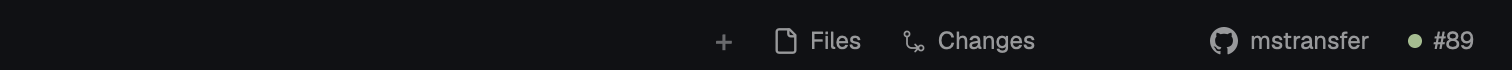
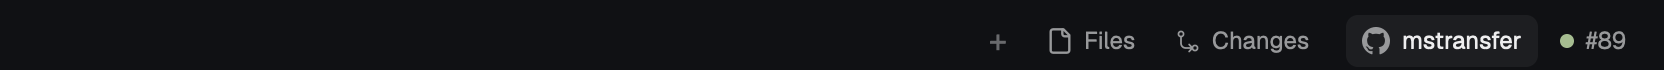
Size the block to its pills; fix clipped hover on the repo pill

Changed region(s): [[0.4663, 0.3714, 0.9947, 0.7714]]

diff --git a/mods/github-link/main.js b/mods/github-link/main.js
@@ -1,11 +1,12 @@
 import { View, div, svg } from "gpui-kit";
 import { h_flex } from "gpui-base";
-import { exec, theme, focused, panes, spaces, window } from "herdr";
+import { exec, theme, focused, panes, spaces, window, layout, run, props, settings } from "herdr";
 
 // Pills for the focused terminal's GitHub repo and its branch's PR.
 // The remote is read where the terminal runs (its space's machine);
 // the PR is looked up here with the person's own `gh` login.
 const PR_EVERY = 2 * 60 * 1000;
+const PAD = 10; // right padding, matching the tab bar's
 
 // git@github.com:o/r.git, https://github.com/o/r, ssh://git@github.com/o/r,
 // and ssh host aliases like github.com-work:o/r.
@@ -73,17 +74,29 @@ export default class GithubLink extends View {
       .children(kids);
   }
 
+  // The block hugs its pills so they sit right after the tab bar's own
+  // buttons: resize our layout node to the pills' width (+ right padding).
+  fit(width) {
+    const id = props()?.block ?? "github";
+    const find = (n) => n?.id === id ? n : (n?.children ?? []).map(find).find(Boolean);
+    const node = find(layout());
+    const want = Math.max(0, Math.round(width / (settings().zoom || 1)) + (width > 0 ? PAD : 0));
+    if (node && Math.abs((node.size?.px ?? -1) - want) > 1) run("layout.resize", { id, px: want });
+  }
+
   render(cx) {
     const t = theme();
-    const row = h_flex().size_full().min_w(0).pr(10).gap(3).items_center().justify_end()
-      .bg(t.chrome).border_b(1).border_color(t.border);
+    const pills = h_flex().id("pills").flex_none().h_full().gap(3).items_center()
+      .on_size_change((size, _cx) => this.fit(size.width));
+    const row = (inner = pills) => h_flex().size_full().min_w(0).items_center()
+      .bg(t.chrome).border_b(1).border_color(t.border).child(inner);
     const w = this.where();
-    if (!w) return row;
+    if (!w) return row();
 
     const rkey = `${w.machine ?? ""}|${w.cwd}`;
-    if (!(rkey in this.repos)) { this.lookupRepo(cx, rkey, w); return row; }
+    if (!(rkey in this.repos)) { this.lookupRepo(cx, rkey, w); return row(); }
     const repo = this.repos[rkey];
-    if (!repo) return row;
+    if (!repo) return row();
 
     const repoUrl = `https://github.com/${repo}`;
     let pr = null;
@@ -98,7 +111,7 @@ export default class GithubLink extends View {
       : pr.state === "MERGED" ? t.ansi5
       : t.dim;
 
-    return row
+    return row(pills
       .child(this.pill(t, "gh-repo", repoUrl, repoUrl, [
         svg("mods/github-link/github.svg").size(14).flex_none(),
         div().max_w(160).truncate().child(repo.split("/")[1]),
@@ -106,6 +119,6 @@ export default class GithubLink extends View {
       .when(Boolean(pr), (el) => el.child(this.pill(t, "gh-pr", `${pr.url}${pr.isDraft ? " (draft)" : ` (${pr.state.toLowerCase()})`}`, pr.url, [
         div().size(7).rounded(4).flex_none().bg(dot),
         div().child(`#${pr.number}`),
-      ])));
+      ]))));
   }
 }

diff --git a/RECIPE.md b/RECIPE.md
@@ -8,8 +8,10 @@ opens it in your default browser.
 
 ## What you see
 
-A strip of the top bar, right-aligned with 10px right padding, on a `chrome`
-background with a 1px `border` bottom line so it looks like part of the tab bar:
+A strip just right of the tab bar's own buttons (+, Files, Changes), on a
+`chrome` background with a 1px `border` bottom line, so it looks like part of
+the tab bar. The pills are 3px apart, with 10px right padding to match the
+tab bar:
 
 - **Repo pill**: the GitHub mark (14px, tinted) and the repo name (no owner;
   truncated at 160px).
@@ -21,7 +23,7 @@ background with a 1px `border` bottom line so it looks like part of the tab bar:
   shipped Files/Changes buttons. Hovering shows the full URL (and the PR
   state) as a tooltip.
 - If the focused folder isn't a git repo, or its `origin` isn't on GitHub,
-  the strip is empty.
+  the strip collapses to 0px.
 
 ## How it behaves
 
@@ -32,8 +34,13 @@ background with a 1px `border` bottom line so it looks like part of the tab bar:
 - PR lookups are cached per repo and branch, and the cache is cleared every 2
   minutes so newly opened PRs show up. Repo lookups are cached per machine
   and folder.
-- The empty part of the strip still drags the window. Pills stop the
-  mouse-down so clicking them doesn't drag.
+- The block sizes itself to its pills. The pill row reports its width
+  (`on_size_change`, divided by `settings().zoom`), and the mod runs
+  `layout.resize {id, px: width + 10}` when the block's size differs by more
+  than 1px. So the pills always sit right after Changes, and the
+  block collapses when there's nothing to show.
+- The window still drags from the padding. Pills stop the mouse-down so
+  clicking them doesn't drag.
 
 ## Built from
 
@@ -50,12 +57,13 @@ background with a 1px `border` bottom line so it looks like part of the tab bar:
   ```json
   { "id": "tabs-row", "type": "row", "size": { "px": 42 }, "resizable": false, "children": [
     { "id": "tabs", "type": "block", "window_drag": true, "content": { "mod": "tabs" } },
-    { "id": "github", "type": "block", "size": { "px": 220 }, "window_drag": true,
-      "content": { "mod": "github-link" } } ] }
+    { "id": "github", "type": "block", "size": { "px": 0 }, "window_drag": true,
+      "content": { "mod": "github-link", "props": { "block": "github" } } } ] }
   ```
 
   Herdr's shipped layouts are read-only, so do this in a personal layout
   (`herdr-app do layout.clone '{"name":"main","as":"my-main"}'`).
+  `props.block` must match the block's `id`, because the mod resizes that node.
 
 ## Watch out
 
@@ -63,7 +71,13 @@ background with a 1px `border` bottom line so it looks like part of the tab bar:
   Without `gh`, the repo pill still works and the PR pill never shows.
 - Only `origin` is used. Forks whose PRs live on `upstream` won't find them.
 - GitHub only. GitLab and Bitbucket remotes show nothing.
-- The block is a fixed 220px. Very long repo names truncate.
+- Very long repo names truncate at 160px.
+- Don't pull the pills left with a negative margin to close the tab bar's
+  10px right padding. The block clips them, which cuts off the first pill's
+  hover background. The gap after Changes is 7px wider than Files→Changes
+  for that reason.
+- The size the mod picks is saved like a click in `layouts/.state/`. The
+  layout file's `px: 0` is only the starting size.
 - `"place": "none"` matters. Otherwise Herdr docks it as a separate bar the
   first time it sees the folder.
 
